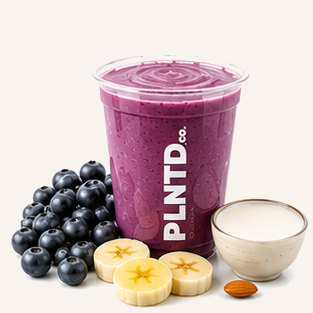
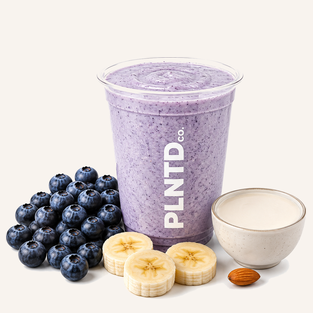
Menu: new juice + smoothie photos (recolored to cream, reframed to match cards)

diff --git a/data.js b/data.js
@@ -8,17 +8,17 @@ window.MENU = [
     eyebrow: '',
     blurb: 'Thick, fruit-forward blends. All smoothies include coconut water.',
     items: [
-      { name: 'Green Glow',         ingr: 'apple, spinach, avocado, broccoli, lemon, coconut water', price: 6.50, color: '#3E7A1E', img: 'assets/drinks/smoothie-green-glow.png?v=6',
+      { name: 'Green Glow',         ingr: 'apple, spinach, avocado, broccoli, lemon, coconut water', price: 6.50, color: '#3E7A1E', img: 'assets/drinks/smoothie-green-glow.png?v=20260710',
         allergens: ['Coconut'], nutrition: { kj: 720, kcal: 172, fat: 8, satFat: 1.2, carbs: 18, sugars: 12, fibre: 5, protein: 3, sodium: 25 } },
-      { name: 'Green Machine',      ingr: 'kale, spinach, cucumber, apple, ginger, lemon, coconut water', price: 6.50, color: '#3E7A1E', img: 'assets/drinks/smoothie-green-machine.png?v=6',
+      { name: 'Green Machine',      ingr: 'kale, spinach, cucumber, apple, ginger, lemon, coconut water', price: 6.50, color: '#3E7A1E', img: 'assets/drinks/smoothie-green-machine.png?v=20260710',
         allergens: ['Coconut'], nutrition: { kj: 380, kcal: 90, fat: 0.6, satFat: 0.1, carbs: 22, sugars: 14, fibre: 4, protein: 2, sodium: 35 } },
-      { name: 'Pineapple Sunrise',  ingr: 'pineapple, banana, apple, coconut water', price: 6.50, color: '#DF9A00', img: 'assets/drinks/smoothie-pineapple-sunrise.png?v=6',
+      { name: 'Pineapple Sunrise',  ingr: 'pineapple, banana, apple, coconut water', price: 6.50, color: '#DF9A00', img: 'assets/drinks/smoothie-pineapple-sunrise.png?v=20260710',
         allergens: ['Coconut'], nutrition: { kj: 760, kcal: 180, fat: 0.6, satFat: 0.1, carbs: 44, sugars: 32, fibre: 4, protein: 2, sodium: 10 } },
-      { name: 'Blueberry Breeze',   ingr: 'blueberries, banana, almond milk', price: 6.50, color: '#2E0096', img: 'assets/drinks/smoothie-blueberry-breeze.png?v=6',
+      { name: 'Blueberry Breeze',   ingr: 'blueberries, banana, almond milk', price: 6.50, color: '#2E0096', img: 'assets/drinks/smoothie-blueberry-breeze.png?v=20260710',
         allergens: ['Tree nuts (almond)'], nutrition: { kj: 840, kcal: 200, fat: 4, satFat: 0.3, carbs: 39, sugars: 28, fibre: 4, protein: 3, sodium: 70 } },
-      { name: 'Strawberry Delight', ingr: 'strawberries, apple, coconut water', price: 6.50, color: '#C1002F', img: 'assets/drinks/smoothie-strawberry-delight.png?v=6',
+      { name: 'Strawberry Delight', ingr: 'strawberries, apple, coconut water', price: 6.50, color: '#C1002F', img: 'assets/drinks/smoothie-strawberry-delight.png?v=20260710',
         allergens: ['Coconut'], nutrition: { kj: 460, kcal: 110, fat: 0.4, satFat: 0.1, carbs: 27, sugars: 20, fibre: 5, protein: 1, sodium: 8 } },
-      { name: 'Berry Blast',        ingr: 'strawberries, banana, apple, coconut water', price: 6.50, color: '#CA0039', img: 'assets/drinks/smoothie-berry-blast.png?v=6',
+      { name: 'Berry Blast',        ingr: 'strawberries, banana, apple, coconut water', price: 6.50, color: '#CA0039', img: 'assets/drinks/smoothie-berry-blast.png?v=20260710',
         allergens: ['Coconut'], nutrition: { kj: 670, kcal: 160, fat: 0.5, satFat: 0.1, carbs: 39, sugars: 27, fibre: 5, protein: 2, sodium: 8 } },
     ],
   },
@@ -28,23 +28,23 @@ window.MENU = [
     eyebrow: '',
     blurb: 'Pressed in-store every morning. Nothing from concentrate.',
     items: [
-      { name: 'Garden Green',      ingr: 'cucumber, celery, kale', price: 6.00, color: '#3E7A1E', img: 'assets/drinks/juice-garden-green.png?v=6',
+      { name: 'Garden Green',      ingr: 'cucumber, celery, kale', price: 6.00, color: '#3E7A1E', img: 'assets/drinks/juice-garden-green.png?v=20260710',
         allergens: [], nutrition: { kj: 210, kcal: 50, fat: 0.3, satFat: 0, carbs: 11, sugars: 6, fibre: 2, protein: 2, sodium: 30 }, noAddedSugar: true },
-      { name: 'Carrot Glow',       ingr: 'carrot, apple, ginger', price: 6.00, color: '#CA3D00', img: 'assets/drinks/juice-carrot-glow.png?v=9',
+      { name: 'Carrot Glow',       ingr: 'carrot, apple, ginger', price: 6.00, color: '#CA3D00', img: 'assets/drinks/juice-carrot-glow.png?v=20260710',
         allergens: [], nutrition: { kj: 460, kcal: 110, fat: 0.3, satFat: 0, carbs: 26, sugars: 20, fibre: 3, protein: 1, sodium: 35 }, noAddedSugar: true },
-      { name: 'Sunrise Carrot',    ingr: 'carrot, orange, lemon', price: 6.00, color: '#CA3D00', img: 'assets/drinks/juice-sunrise-carrot.png?v=9',
+      { name: 'Sunrise Carrot',    ingr: 'carrot, orange, lemon', price: 6.00, color: '#CA3D00', img: 'assets/drinks/juice-sunrise-carrot.png?v=20260710',
         allergens: [], nutrition: { kj: 550, kcal: 130, fat: 0.3, satFat: 0, carbs: 31, sugars: 25, fibre: 4, protein: 2, sodium: 30 }, noAddedSugar: true },
-      { name: 'Daily Cleanse',     ingr: 'apple, carrot, ginger', price: 6.00, color: '#3E7A1E', img: 'assets/drinks/juice-daily-cleanse.png?v=7',
+      { name: 'Daily Cleanse',     ingr: 'apple, carrot, ginger', price: 6.00, color: '#3E7A1E', img: 'assets/drinks/juice-daily-cleanse.png?v=20260710',
         allergens: [], nutrition: { kj: 630, kcal: 150, fat: 0.4, satFat: 0, carbs: 37, sugars: 30, fibre: 4, protein: 1, sodium: 12 }, noAddedSugar: true },
-      { name: 'Citrus Refresher',  ingr: 'apple, mint, ginger, lemon', price: 6.00, color: '#DF9A00', img: 'assets/drinks/juice-citrus-refresher.png?v=6',
+      { name: 'Citrus Refresher',  ingr: 'apple, mint, ginger, lemon', price: 6.00, color: '#DF9A00', img: 'assets/drinks/juice-citrus-refresher.png?v=20260710',
         allergens: [], nutrition: { kj: 590, kcal: 140, fat: 0.3, satFat: 0, carbs: 35, sugars: 28, fibre: 3, protein: 0, sodium: 5 }, noAddedSugar: true },
-      { name: 'Apple Zing',        ingr: 'apple, mint, ginger', price: 6.00, color: '#3E7A1E', img: 'assets/drinks/juice-apple-zing.png?v=6',
+      { name: 'Apple Zing',        ingr: 'apple, mint, ginger', price: 6.00, color: '#3E7A1E', img: 'assets/drinks/juice-apple-zing.png?v=20260710',
         allergens: [], nutrition: { kj: 590, kcal: 140, fat: 0.3, satFat: 0, carbs: 35, sugars: 28, fibre: 3, protein: 0, sodium: 5 }, noAddedSugar: true },
-      { name: 'Citrus Boost',      ingr: 'orange, lemon, carrot', price: 6.00, color: '#DF9A00', img: 'assets/drinks/juice-citrus-boost.png?v=10',
+      { name: 'Citrus Boost',      ingr: 'orange, lemon, carrot', price: 6.00, color: '#DF9A00', img: 'assets/drinks/juice-citrus-boost.png?v=20260710',
         allergens: [], nutrition: { kj: 550, kcal: 130, fat: 0.3, satFat: 0, carbs: 31, sugars: 25, fibre: 4, protein: 2, sodium: 25 }, noAddedSugar: true },
-      { name: 'Vitamin C Blast',   ingr: 'orange, pineapple, lemon', price: 6.00, color: '#DF9A00', img: 'assets/drinks/juice-vitamin-c-blast.png?v=6',
+      { name: 'Vitamin C Blast',   ingr: 'orange, pineapple, lemon', price: 6.00, color: '#DF9A00', img: 'assets/drinks/juice-vitamin-c-blast.png?v=20260710',
         allergens: [], nutrition: { kj: 710, kcal: 170, fat: 0.4, satFat: 0, carbs: 41, sugars: 35, fibre: 4, protein: 2, sodium: 8 }, noAddedSugar: true },
-      { name: 'Berry Fresh',       ingr: 'strawberries, apple, lemon', price: 6.00, color: '#C1002F', img: 'assets/drinks/juice-berry-fresh.png?v=6',
+      { name: 'Berry Fresh',       ingr: 'strawberries, apple, lemon', price: 6.00, color: '#C1002F', img: 'assets/drinks/juice-berry-fresh.png?v=20260710',
         allergens: [], nutrition: { kj: 420, kcal: 100, fat: 0.3, satFat: 0, carbs: 24, sugars: 18, fibre: 3, protein: 1, sodium: 5 }, noAddedSugar: true },
     ],
   },
